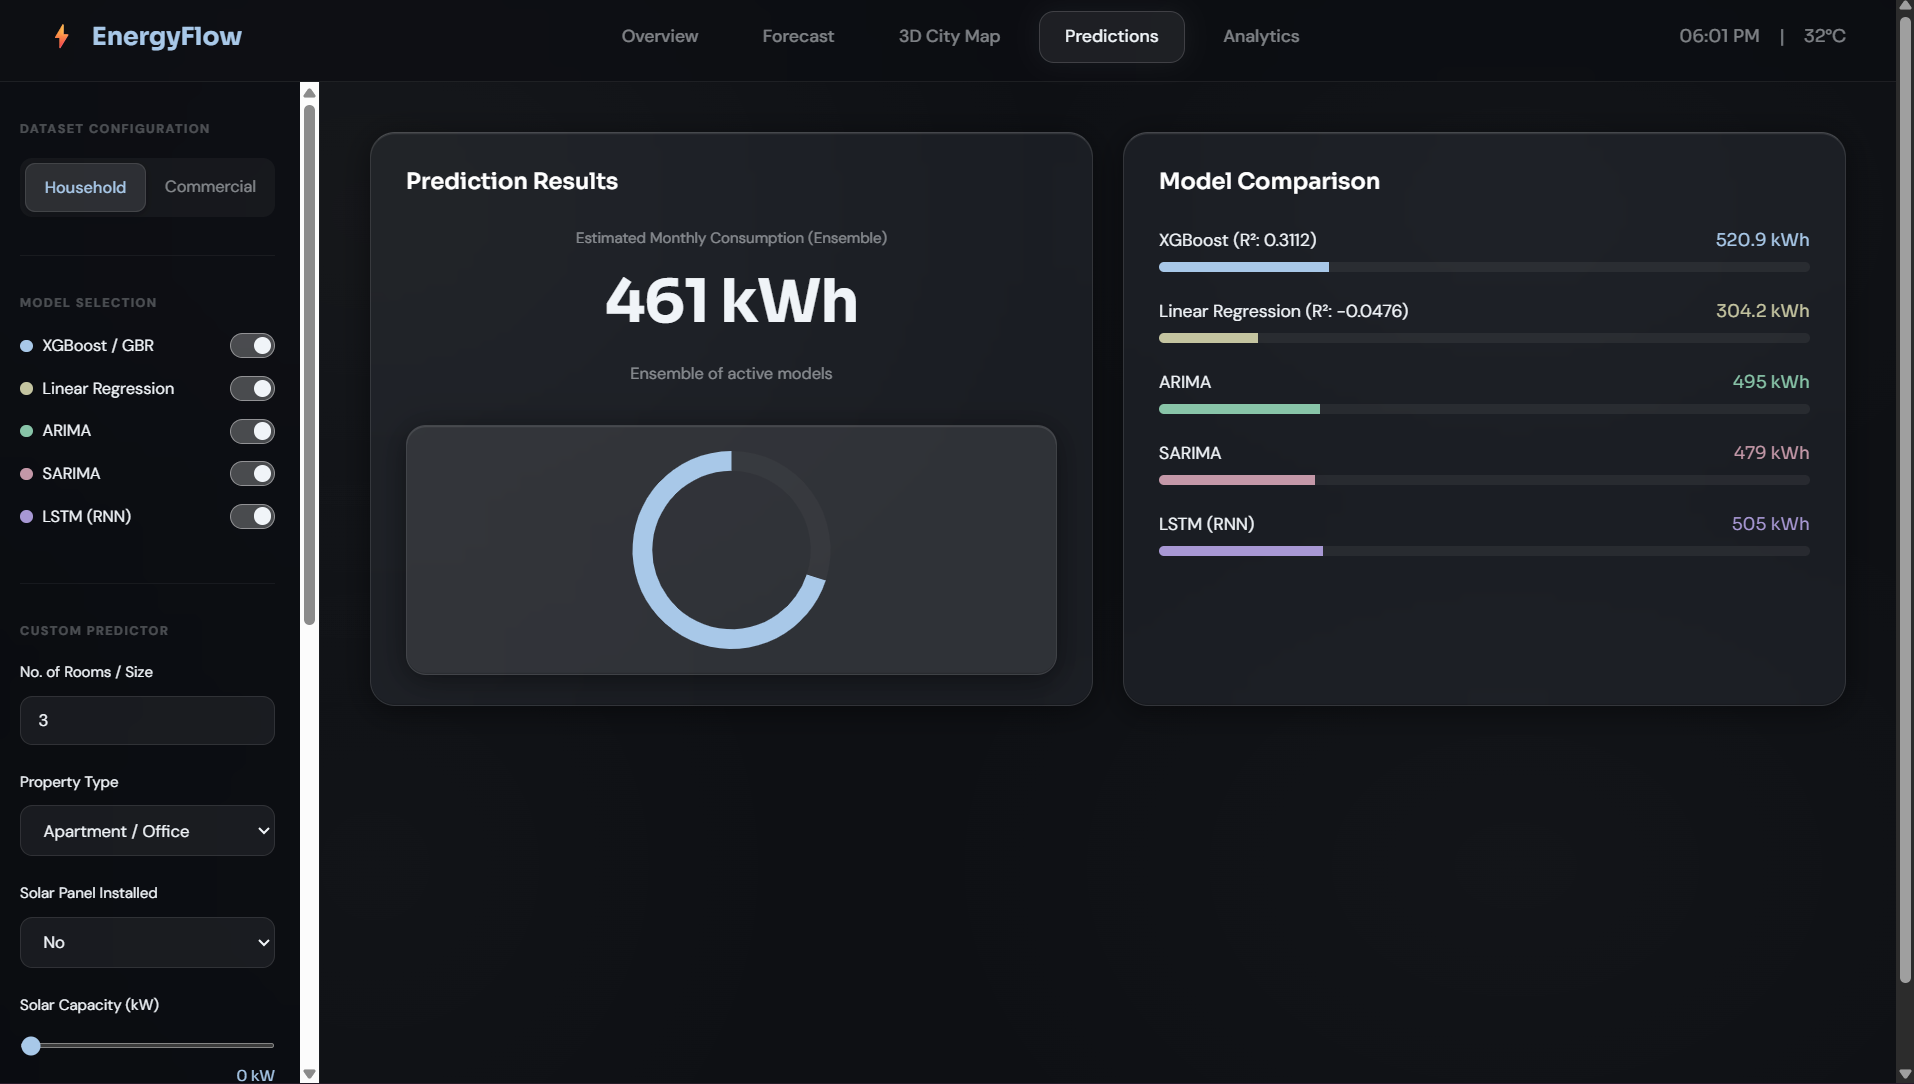
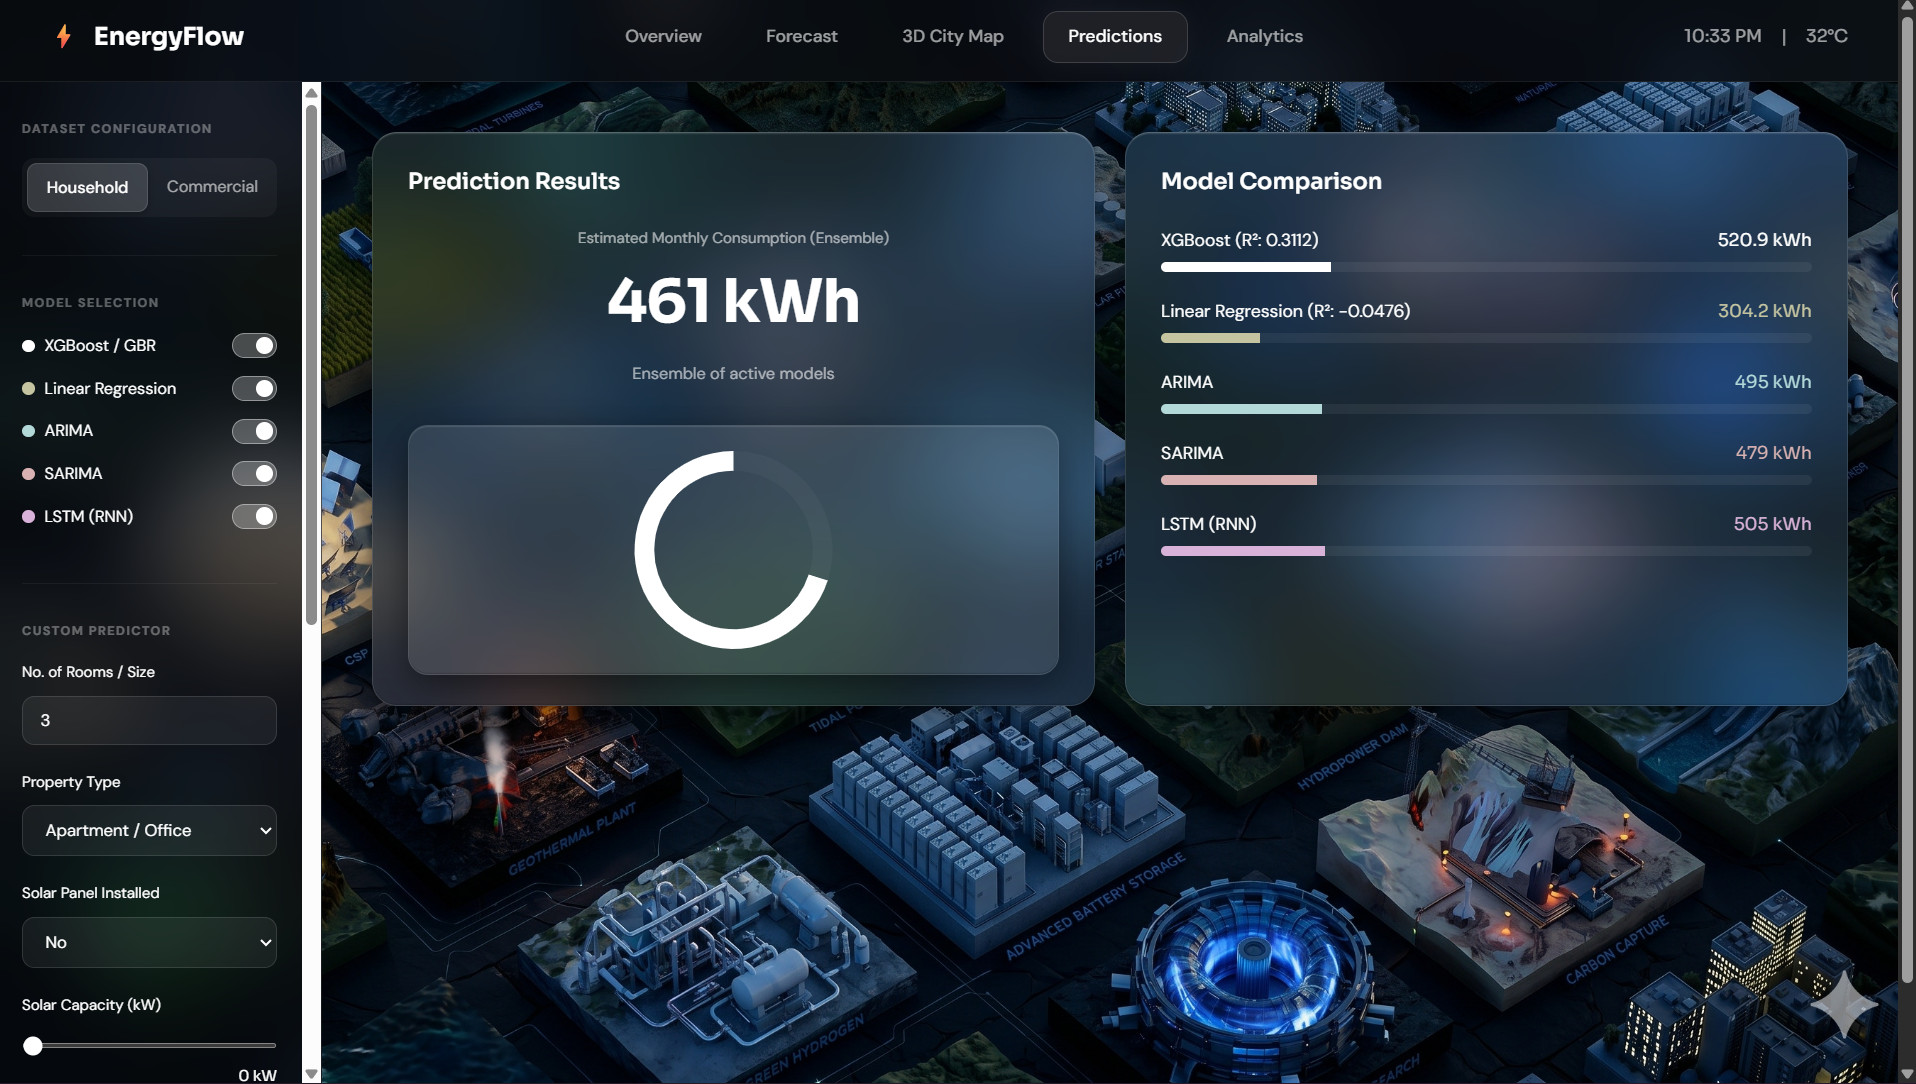
Update docs images (hero, map, predictions) and project files

diff --git a/dashboard.html b/dashboard.html
@@ -10,37 +10,37 @@
     <link href="https://unpkg.com/maplibre-gl@2.4.0/dist/maplibre-gl.css" rel="stylesheet"/>
     <style>
         :root {
-            /* Page background — deep neutral dark, zero warmth */
-            --bg:           #0e1014;
-            --bg2:          #13161b;
+            /* Page background — pure neutral dark */
+            --bg:           #0a0a0a;
+            --bg2:          #111111;
 
-            /* Glass — completely neutral frosted glass, no tint */
-            --glass:        rgba(255, 255, 255, 0.05);
-            --glass-hover:  rgba(255, 255, 255, 0.08);
-            --glass-strong: rgba(255, 255, 255, 0.10);
-            --glass-card:   rgba(255, 255, 255, 0.055);
+            /* Glass — stronger frosted liquid glass */
+            --glass:        rgba(255, 255, 255, 0.06);
+            --glass-hover:  rgba(255, 255, 255, 0.10);
+            --glass-strong: rgba(255, 255, 255, 0.15);
+            --glass-card:   rgba(255, 255, 255, 0.08);
 
-            /* Borders — pure white at low opacity, zero color tint */
-            --border:       rgba(255, 255, 255, 0.10);
-            --border-light: rgba(255, 255, 255, 0.06);
-            --border-top:   rgba(255, 255, 255, 0.18);  /* lighter top = glass rim effect */
+            /* Borders — pure white at low opacity */
+            --border:       rgba(255, 255, 255, 0.12);
+            --border-light: rgba(255, 255, 255, 0.08);
+            --border-top:   rgba(255, 255, 255, 0.25);  /* strong top light reflection */
 
-            /* Accents — cool blue-white palette, NO amber/orange */
-            --accent:       #a8c8e8;   /* soft cool blue — primary accent */
-            --accent2:      #8bb8d4;   /* medium blue */
-            --accent3:      #6ca8c4;   /* deeper blue */
-            --accent-green: #88c4a8;   /* muted teal-green */
-            --accent-purple:#a898d4;   /* soft violet */
-            --accent-rose:  #c498a8;   /* desaturated rose */
+            /* Accents — pure silver/white liquid glass palette */
+            --accent:       #ffffff;   /* pure white */
+            --accent2:      #e0e0e0;   /* light silver */
+            --accent3:      #c0c0c0;   /* silver */
+            --accent-green: #b2d8d8;   /* neutral desaturated teal */
+            --accent-purple:#d8b2d8;   /* neutral desaturated purple */
+            --accent-rose:  #d8b2b2;   /* neutral desaturated rose */
 
-            /* Text — pure cool white */
-            --text:         #f0f4f8;
-            --text-dim:     rgba(240, 244, 248, 0.50);
-            --text-faint:   rgba(240, 244, 248, 0.28);
+            /* Text — pure white */
+            --text:         #ffffff;
+            --text-dim:     rgba(255, 255, 255, 0.60);
+            --text-faint:   rgba(255, 255, 255, 0.35);
 
-            /* Shadows — dark with zero color */
-            --shadow:       0 4px 24px rgba(0, 0, 0, 0.45);
-            --shadow-lg:    0 8px 40px rgba(0, 0, 0, 0.55);
+            /* Shadows — softer, deeper */
+            --shadow:       0 10px 30px rgba(0, 0, 0, 0.5);
+            --shadow-lg:    0 20px 50px rgba(0, 0, 0, 0.6);
         }
 
         * {
@@ -50,7 +50,9 @@
         }
 
         body {
-            background: var(--bg);
+            background: url('background.jpg') no-repeat center center fixed;
+            background-size: cover;
+            background-color: var(--bg); /* fallback */
             min-height: 100vh;
             font-family: 'DM Sans', sans-serif;
             color: var(--text);
@@ -60,7 +62,7 @@
             font-size: 14px;
         }
 
-        /* Subtle pure white blobs for refraction */
+        /* Dark overlay and subtle pure white blobs for refraction */
         body::before {
             content: '';
             position: fixed;
@@ -68,6 +70,7 @@
             z-index: 0;
             pointer-events: none;
             background:
+                rgba(0, 0, 0, 0.65), /* Dark overlay to make glass cards pop and text readable */
                 radial-gradient(ellipse 800px 600px at 20% 20%, rgba(255, 255, 255, 0.03) 0%, transparent 70%),
                 radial-gradient(ellipse 700px 500px at 80% 80%, rgba(255, 255, 255, 0.02) 0%, transparent 70%),
                 radial-gradient(ellipse 600px 400px at 80% 20%, rgba(255, 255, 255, 0.02) 0%, transparent 70%),
@@ -91,8 +94,8 @@
             background: var(--glass-card) !important;
             border: 1px solid var(--border) !important;
             border-top: 1px solid var(--border-top) !important;
-            backdrop-filter: blur(28px) saturate(140%) !important;
-            -webkit-backdrop-filter: blur(28px) saturate(140%) !important;
+            backdrop-filter: blur(40px) saturate(150%) !important;
+            -webkit-backdrop-filter: blur(40px) saturate(150%) !important;
             border-radius: 20px !important;
             box-shadow:
                 var(--shadow),
@@ -977,7 +980,7 @@
             const ctxSolar = document.getElementById('chartSolar').getContext('2d');
             charts.solar = new Chart(ctxSolar, {
                 type: 'bar',
-                data: { labels: ['No Solar', 'With Solar'], datasets: [{ data: [150, 50], backgroundColor: ['#8bb8d4', '#a8c8e8'] }] },
+                data: { labels: ['No Solar', 'With Solar'], datasets: [{ data: [150, 50], backgroundColor: ['#b0b0b0', '#ffffff'] }] },
                 options: {
                     responsive: true, maintainAspectRatio: false,
                     plugins: { legend: { display: false } }
@@ -986,8 +989,8 @@
 
             const ctxForecast = document.getElementById('chartForecast').getContext('2d');
             let gradient = ctxForecast.createLinearGradient(0, 0, 0, 400);
-            gradient.addColorStop(0, 'rgba(168, 200, 232, 0.4)');
-            gradient.addColorStop(1, 'rgba(168, 200, 232, 0.0)');
+            gradient.addColorStop(0, 'rgba(255, 255, 255, 0.25)');
+            gradient.addColorStop(1, 'rgba(255, 255, 255, 0.0)');
             
             charts.forecast = new Chart(ctxForecast, {
                 type: 'line',
@@ -1003,7 +1006,7 @@
             const ctxDonut = document.getElementById('chartDonut').getContext('2d');
             charts.donut = new Chart(ctxDonut, {
                 type: 'doughnut',
-                data: { labels: ['Base Load', 'HVAC/Appliances'], datasets: [{ data: [30, 70], backgroundColor: ['rgba(255,255,255,0.03)', '#a8c8e8'], borderWidth: 0 }] },
+                data: { labels: ['Base Load', 'HVAC/Appliances'], datasets: [{ data: [30, 70], backgroundColor: ['rgba(255,255,255,0.03)', '#ffffff'], borderWidth: 0 }] },
                 options: {
                     responsive: true, maintainAspectRatio: false, cutout: '80%',
                     plugins: { legend: { display: false } }
@@ -1046,8 +1049,8 @@
                     charts.monthly.data = {
                         labels: d.months,
                         datasets: [
-                            { label: 'Household', data: d.household, borderColor: '#a8c8e8', backgroundColor: 'rgba(168,200,232,0.1)', fill: true },
-                            { label: 'Commercial (/5)', data: d.commercial.map(v=>v/5), borderColor: '#c4c4a0', borderDash: [5, 5] }
+                            { label: 'Household', data: d.household, borderColor: '#ffffff', backgroundColor: 'rgba(255,255,255,0.1)', fill: true },
+                            { label: 'Commercial (/5)', data: d.commercial.map(v=>v/5), borderColor: '#cccccc', borderDash: [5, 5] }
                         ]
                     };
                     charts.monthly.update();
@@ -1059,8 +1062,8 @@
                     charts.seasonal.data = {
                         labels: d.seasons,
                         datasets: [
-                            { label: 'Household', data: d.household, backgroundColor: '#a8c8e8' },
-                            { label: 'Commercial (/5)', data: d.commercial.map(v=>v/5), backgroundColor: '#c4c4a0' }
+                            { label: 'Household', data: d.household, backgroundColor: '#ffffff' },
+                            { label: 'Commercial (/5)', data: d.commercial.map(v=>v/5), backgroundColor: '#cccccc' }
                         ]
                     };
                     charts.seasonal.update();
@@ -1081,7 +1084,7 @@
                     let d = await res.json();
                     charts.features.data = {
                         labels: d.features,
-                        datasets: [{ data: d.importance, backgroundColor: '#a8c8e8' }]
+                        datasets: [{ data: d.importance, backgroundColor: '#ffffff' }]
                     };
                     charts.features.update();
                 }
@@ -1207,15 +1210,15 @@
                     document.getElementById('fc-mult').innerText = mult.toFixed(2) + ' x';
 
                     let gradient = charts.forecast.ctx.createLinearGradient(0, 0, 0, 400);
-                    gradient.addColorStop(0, 'rgba(168, 200, 232, 0.4)');
-                    gradient.addColorStop(1, 'rgba(168, 200, 232, 0.0)');
+                    gradient.addColorStop(0, 'rgba(255, 255, 255, 0.25)');
+                    gradient.addColorStop(1, 'rgba(255, 255, 255, 0.0)');
 
                     charts.forecast.data = {
                         labels: data.map(d=>'Yr '+d.year),
                         datasets: [
-                            { label: 'Projected', data: data.map(d=>d.kwh), borderColor: '#a8c8e8', backgroundColor: gradient, fill: true, tension: 0.3 },
-                            { label: 'High (15%)', data: data.map(d=>d.high), borderColor: 'rgba(137,180,204,0.4)', borderDash: [5,5], fill: false, pointRadius: 0 },
-                            { label: 'Low (15%)', data: data.map(d=>d.low), borderColor: 'rgba(137,180,204,0.4)', borderDash: [5,5], fill: false, pointRadius: 0 }
+                            { label: 'Projected', data: data.map(d=>d.kwh), borderColor: '#ffffff', backgroundColor: gradient, fill: true, tension: 0.3 },
+                            { label: 'High (15%)', data: data.map(d=>d.high), borderColor: 'rgba(255,255,255,0.3)', borderDash: [5,5], fill: false, pointRadius: 0 },
+                            { label: 'Low (15%)', data: data.map(d=>d.low), borderColor: 'rgba(255,255,255,0.3)', borderDash: [5,5], fill: false, pointRadius: 0 }
                         ]
                     };
                     charts.forecast.update();